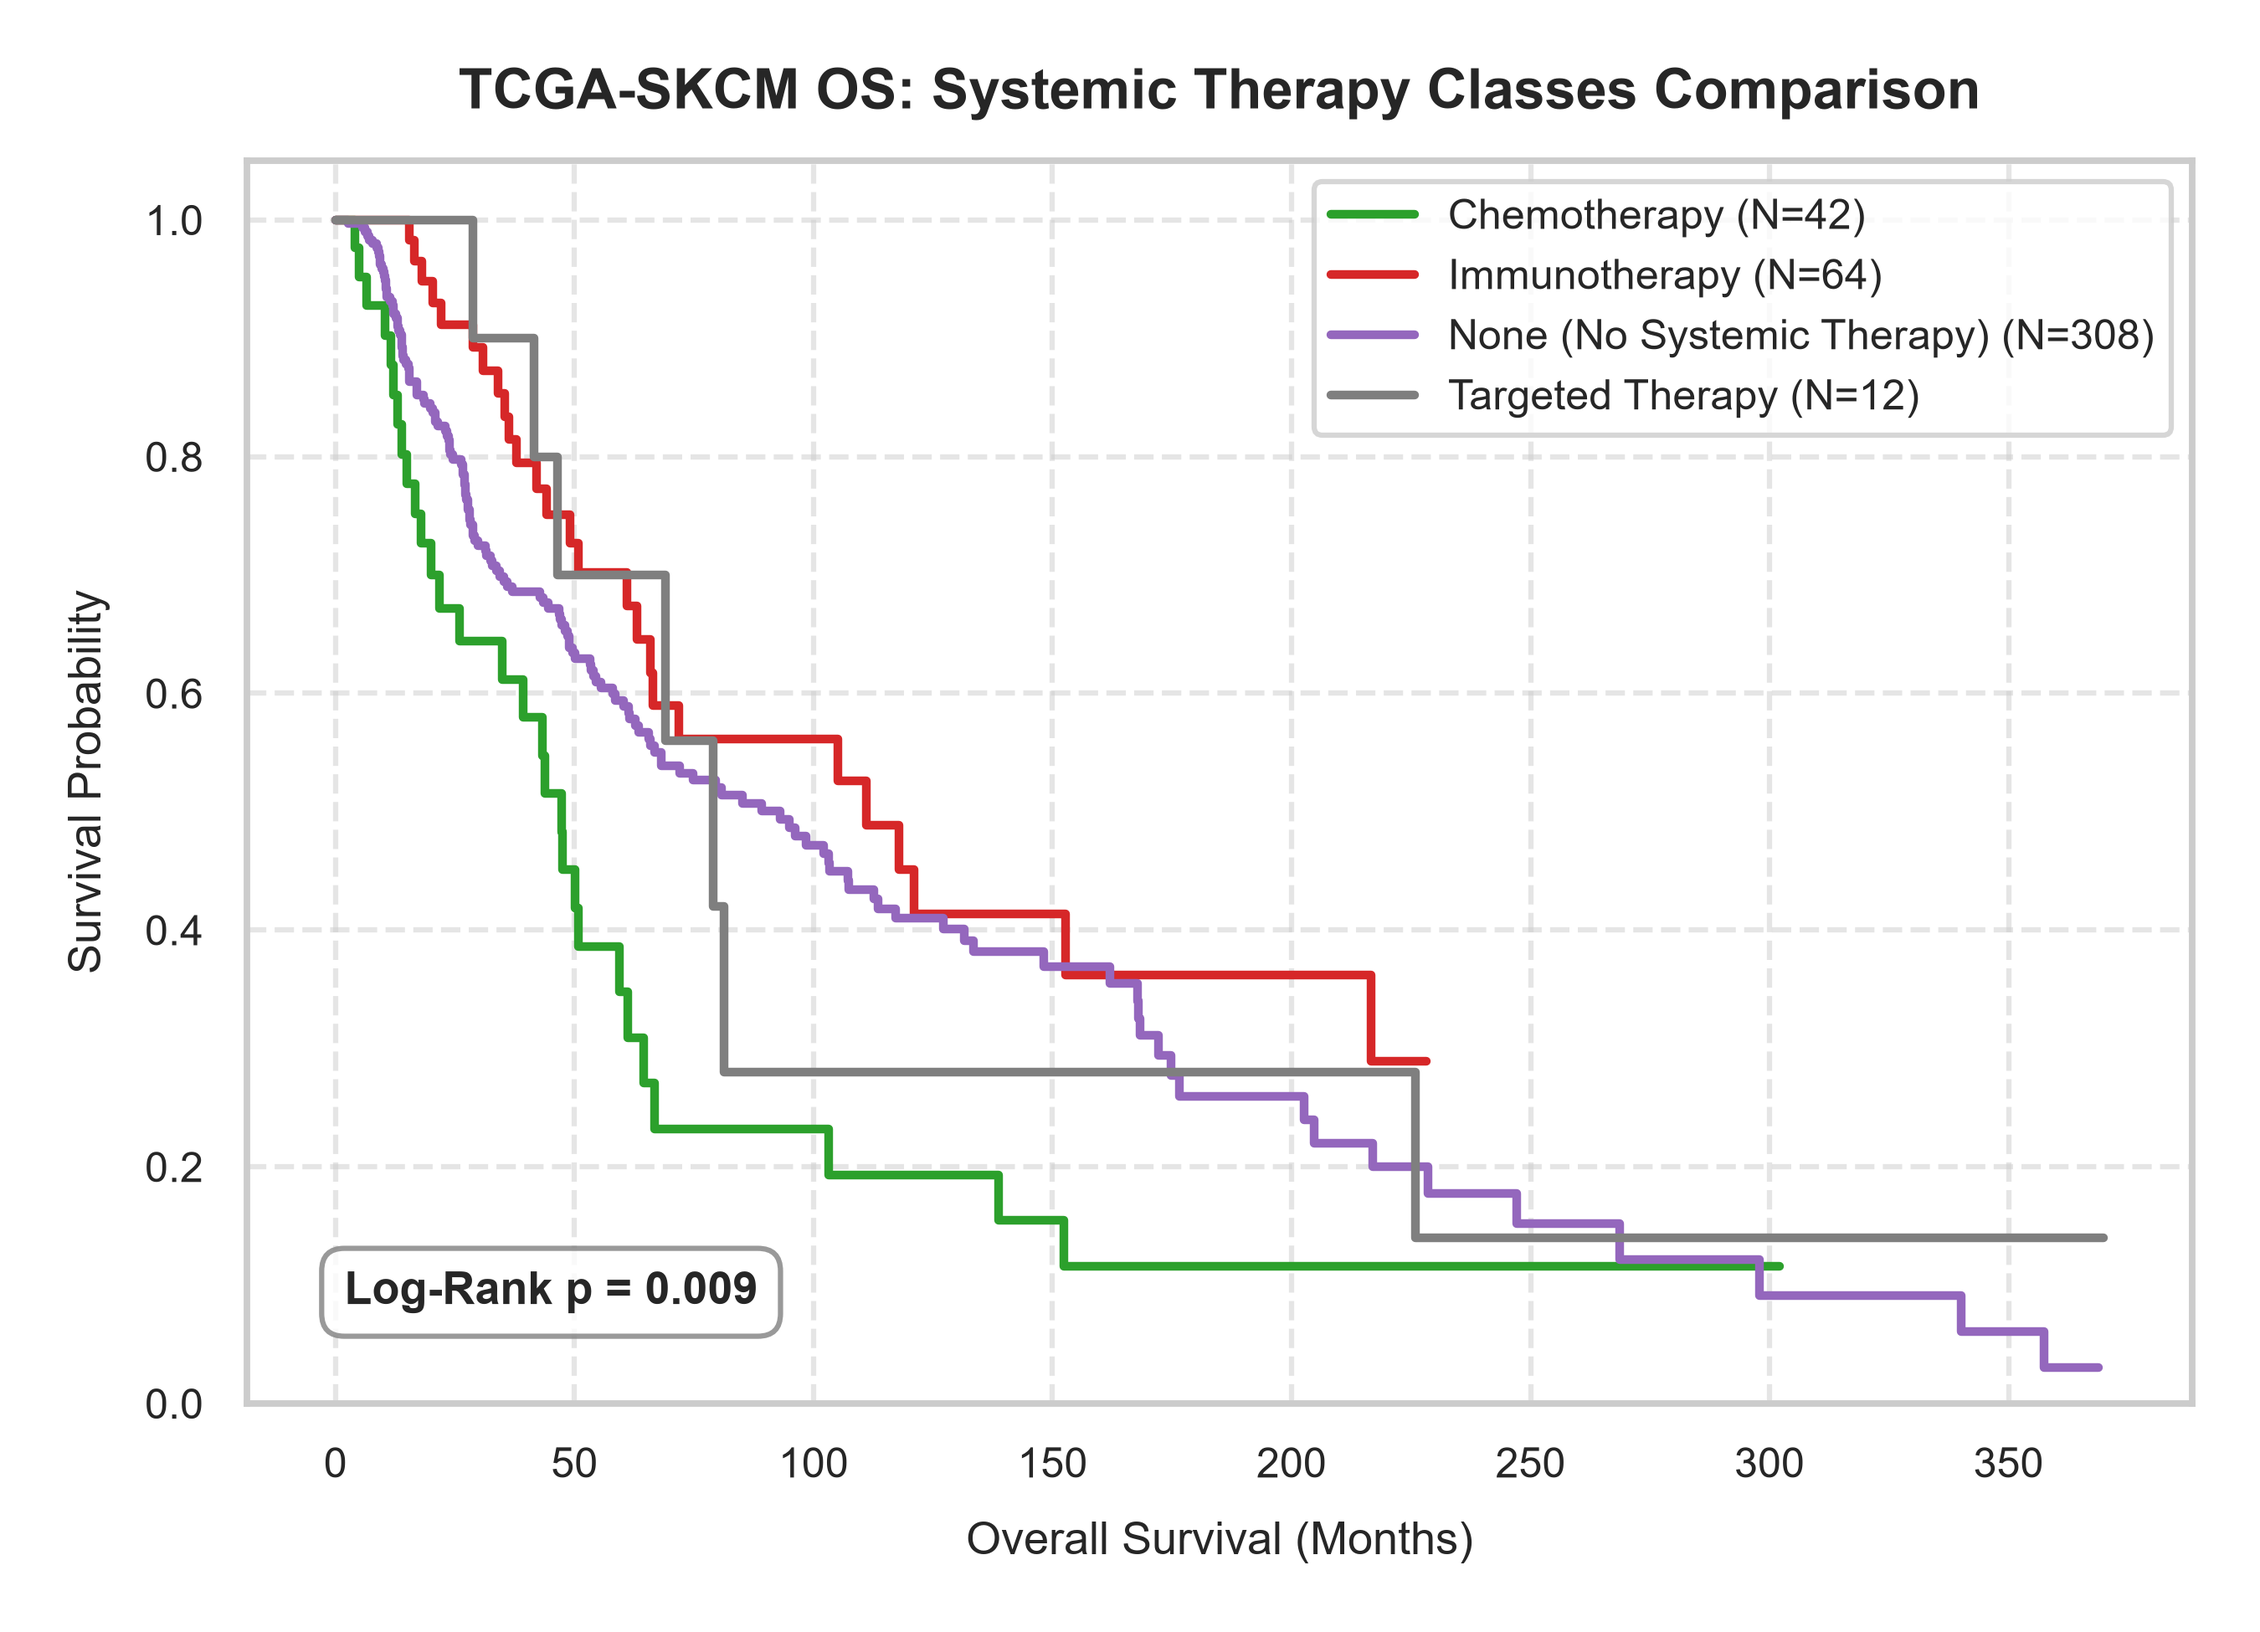
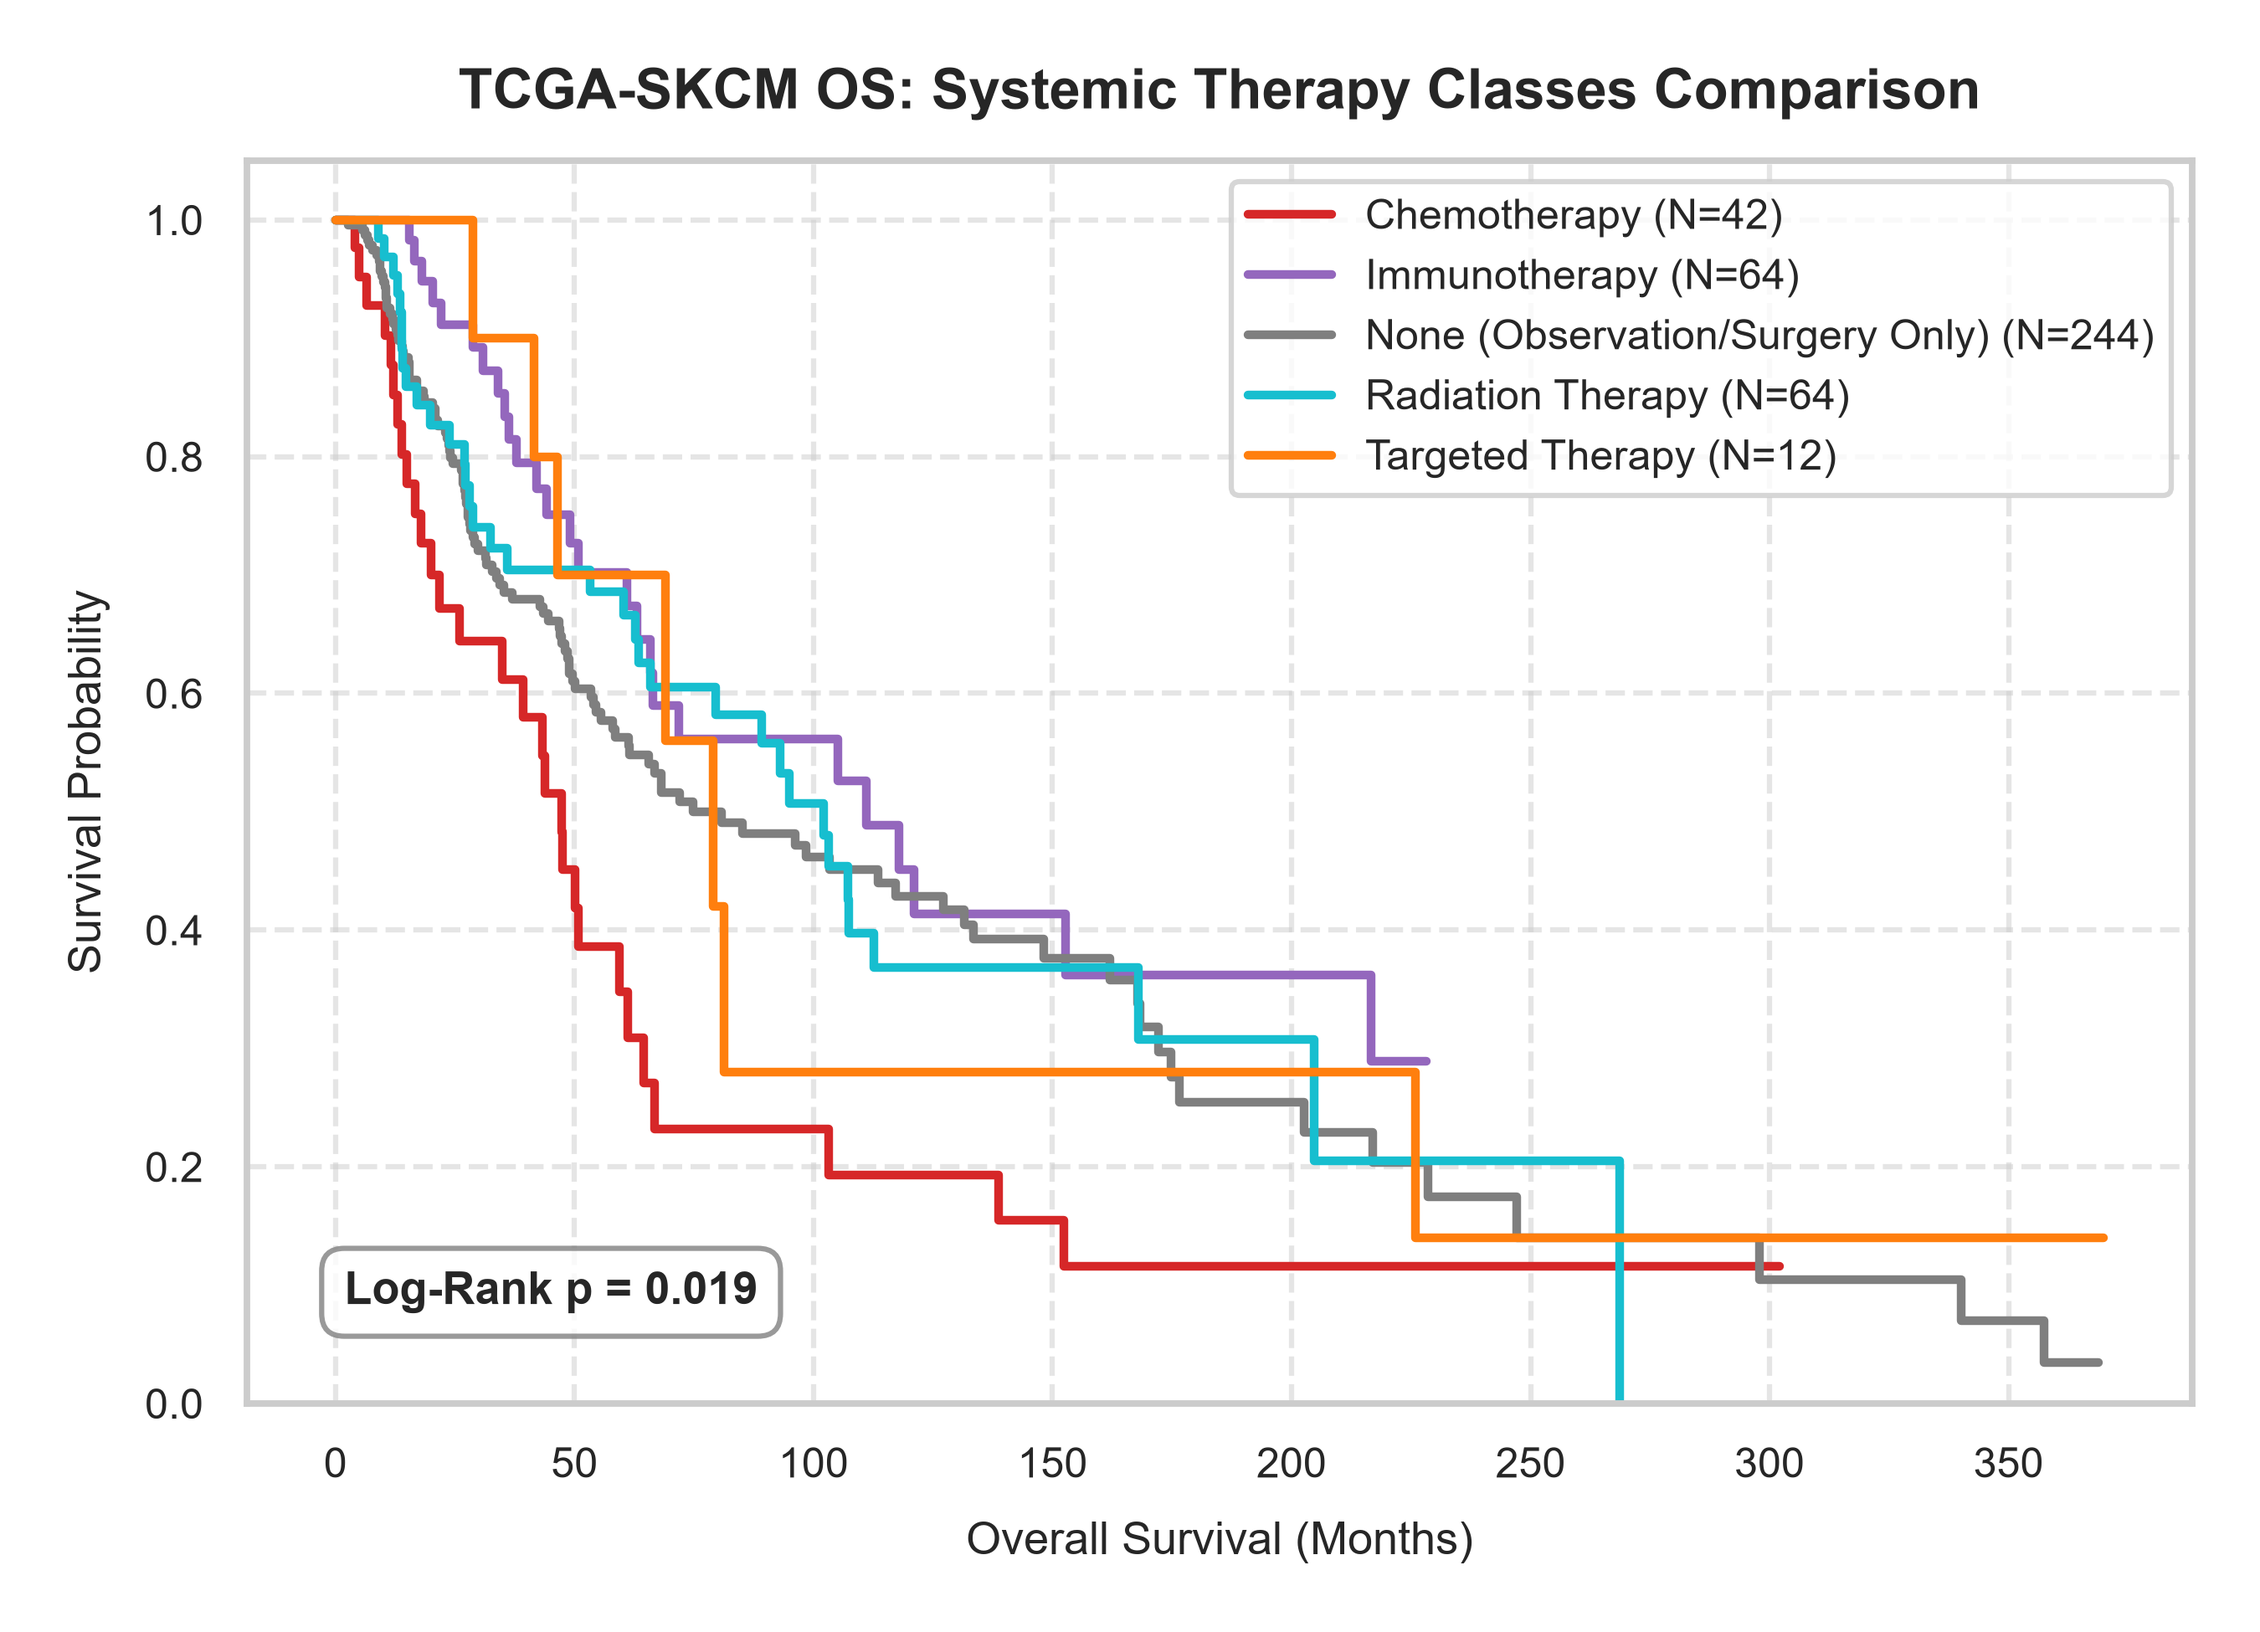
feat(plots): add Radiation Therapy category to systemic comparison KM plot

diff --git a/q1-response-predictor/src/run_km_curves.py b/q1-response-predictor/src/run_km_curves.py
@@ -49,7 +49,7 @@ def main():
 
     # Color palettes
     palette_2 = ["#1f77b4", "#ff7f0e"]
-    palette_multi = ["#2ca02c", "#d62728", "#9467bd", "#7f7f7f"] # green, red, purple, gray
+    palette_multi = ["#d62728", "#9467bd", "#7f7f7f", "#17becf", "#ff7f0e"] # red, purple, gray, cyan, orange
 
     # Helper function to plot KM
     def plot_km(df, group_col, title, filename, palette, labels=None, split_median=False):
@@ -163,7 +163,8 @@ def main():
     # 1. Targeted (any) -> Targeted
     # 2. Immunotherapy (any but no targeted) -> Immunotherapy
     # 3. Chemotherapy (any but no immunotherapy and no targeted) -> Chemotherapy
-    # 4. None -> None
+    # 4. Radiation Therapy (any but no chemo/immuno/targeted) -> Radiation Therapy
+    # 5. None -> None
     def map_therapy_groups(row):
         if row['TX_TYPE_TARGETED_MOLECULAR_THERAPY'] == 1:
             return 'Targeted Therapy'
@@ -171,8 +172,10 @@ def main():
             return 'Immunotherapy'
         elif row['TX_TYPE_CHEMOTHERAPY'] == 1:
             return 'Chemotherapy'
+        elif row['TX_TYPE_RADIATION_THERAPY'] == 1:
+            return 'Radiation Therapy'
         else:
-            return 'None (No Systemic Therapy)'
+            return 'None (Observation/Surgery Only)'
             
     df['THERAPY_GROUP'] = df.apply(map_therapy_groups, axis=1)
     
